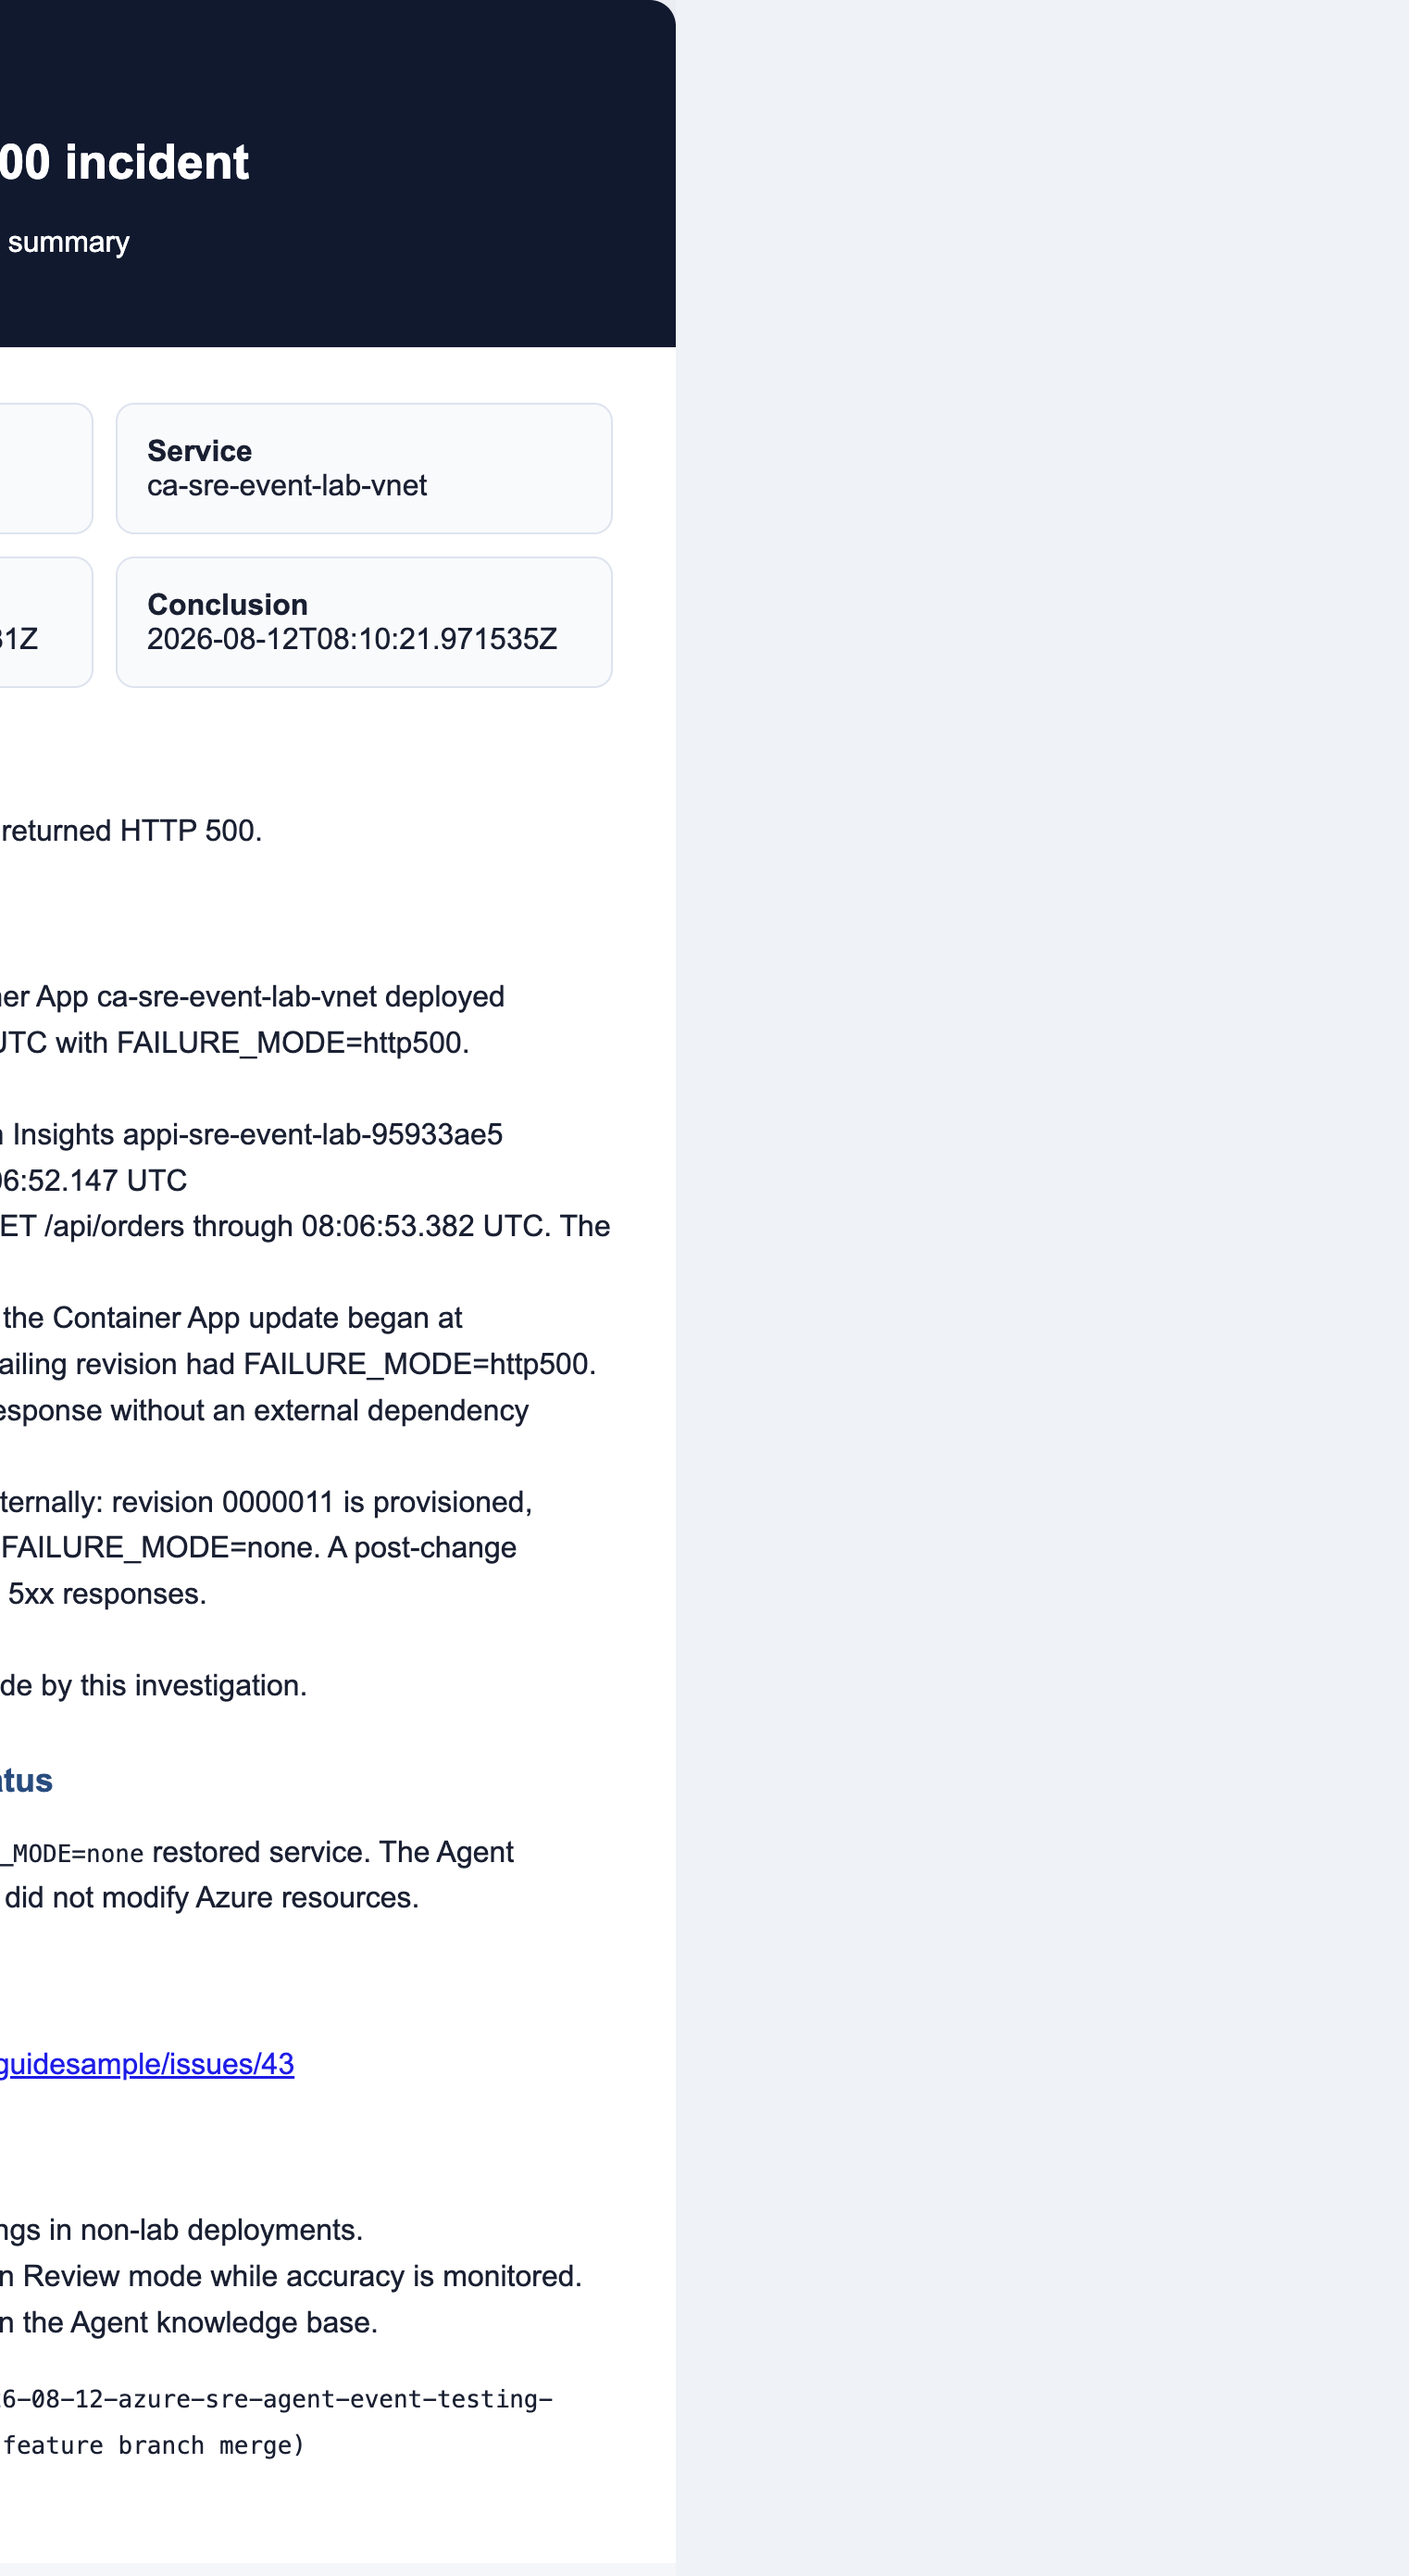
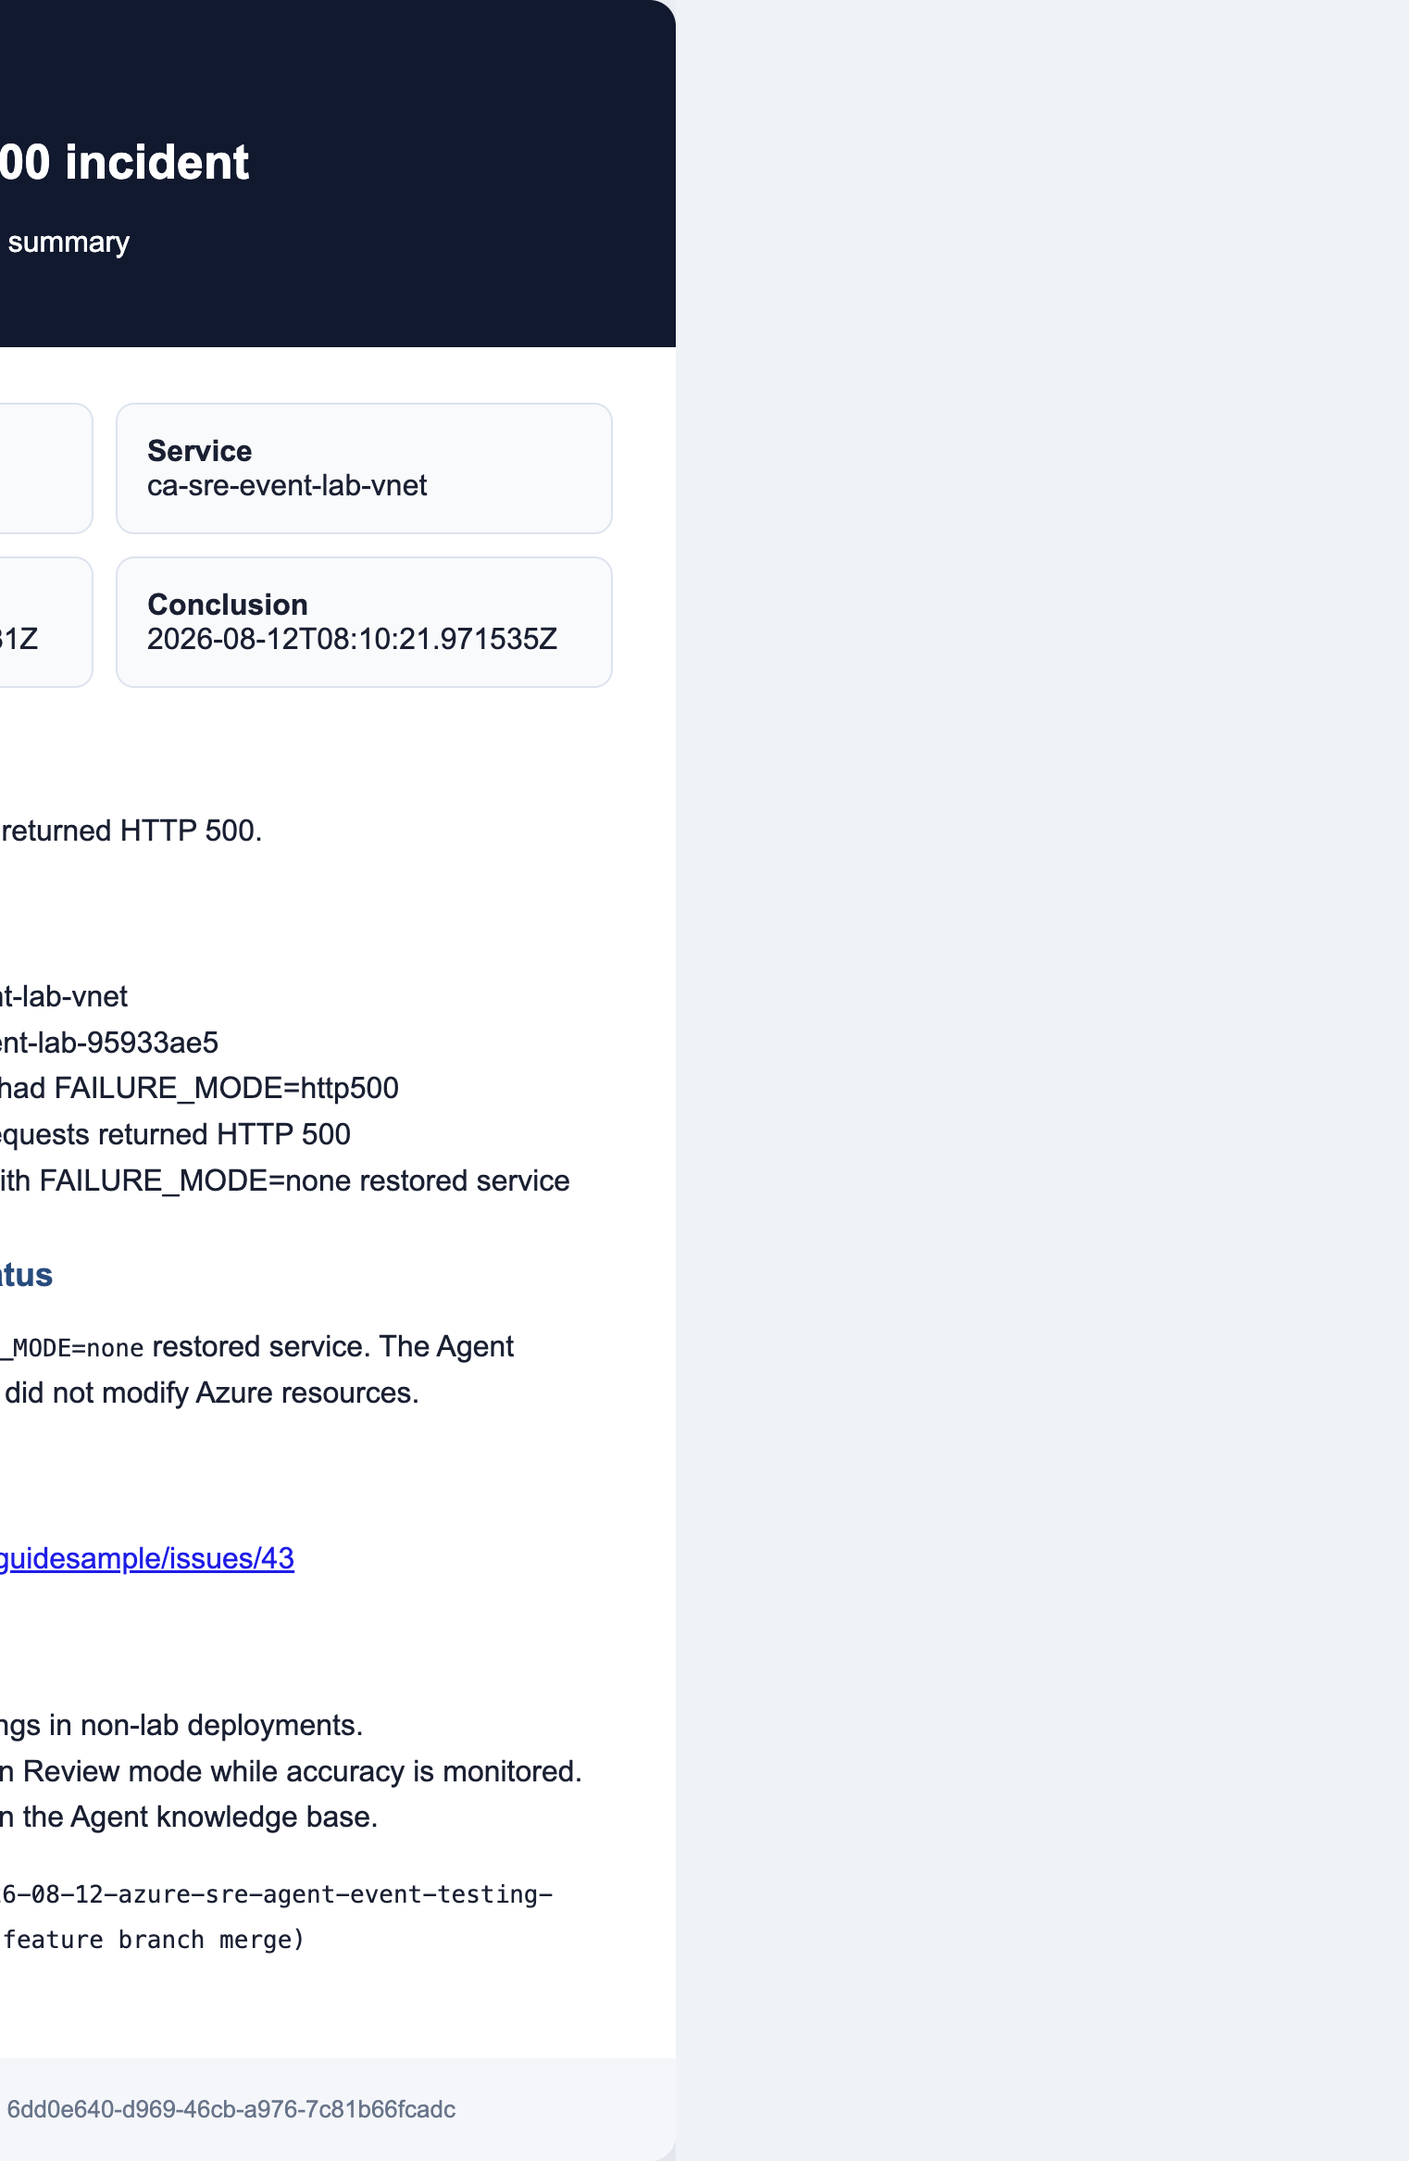
fix(monitor): clarify native SRE incident workflows

diff --git a/monitor/sre-agent-event-lab/assets/notifications/s1-incident-summary.html b/monitor/sre-agent-event-lab/assets/notifications/s1-incident-summary.html
@@ -34,7 +34,7 @@
       <h2>Customer impact</h2>
       <p>120 <code>GET /api/orders</code> requests returned HTTP 500.</p>
       <h2>Root cause and evidence</h2>
-      <p>Root cause confirmed: Container App ca-sre-event-lab-vnet deployed revision 0000010 at 08:06:16 UTC with FAILURE_MODE=http500.<br><br>- Affected resource: Application Insights appi-sre-event-lab-95933ae5<br>- Exact onset: 2026-08-12 08:06:52.147 UTC<br>- Impact: 120 HTTP 500s on GET /api/orders through 08:06:53.382 UTC. The alert fired at 08:07:56 UTC.<br>- Evidence: Activity Log shows the Container App update began at 08:06:08.954 UTC; the active failing revision had FAILURE_MODE=http500. Trace evidence shows a 500 response without an external dependency timeout pattern.<br>- Mitigation: Already applied externally: revision 0000011 is provisioned, receives 100% traffic, and has FAILURE_MODE=none. A post-change telemetry sample contained no 5xx responses.<br><br>No resource changes were made by this investigation.</p>
+      <p>Affected workload: ca-sre-event-lab-vnet<br>Telemetry source: appi-sre-event-lab-95933ae5<br>Root cause: revision 0000010 had FAILURE_MODE=http500<br>Impact: 120 GET /api/orders requests returned HTTP 500<br>Mitigation: a healthy revision with FAILURE_MODE=none restored service</p>
       <h2>Mitigation and current status</h2>
       <p>A healthy revision with <code>FAILURE_MODE=none</code> restored service. The Agent remained in Review mode and did not modify Azure resources.</p>
       <h2>Ticket</h2>

diff --git a/monitor/sre-agent-event-lab/scripts/tests/test_notifications.py b/monitor/sre-agent-event-lab/scripts/tests/test_notifications.py
@@ -76,6 +76,8 @@ def test_generate_notifications_creates_ticket_and_email(tmp_path):
         assert heading in issue
     assert "120" in issue
     assert "thread-1" in issue
+    assert "Affected workload: `ca-sre-event-lab-vnet`" in issue
+    assert "Affected resource: Application Insights" not in issue
     assert "available after merge" in issue
     assert "Incident window" not in issue
     assert "Alert fired:" in issue
@@ -92,12 +94,27 @@ def test_generate_notifications_creates_ticket_and_email(tmp_path):
     assert "available after merge" in message.get_body(
         preferencelist=("html",)
     ).get_content()
+    assert "Affected workload: ca-sre-event-lab-vnet" in message.get_body(
+        preferencelist=("html",)
+    ).get_content()
     assert "**" not in (tmp_path / "s1-incident-summary.html").read_text()
     assert outputs["issue"].endswith("s1-github-issue.md")
 
 
 def test_generate_notifications_redacts_sensitive_values(tmp_path):
     notifications = load_module()
+    redacted = notifications.sanitize(
+        "Authorization: Bearer hidden-token "
+        "DefaultEndpointsProtocol=https;AccountKey=abc123 "
+        "upn=user@contoso.com "
+        "https://logic.example/path?sig=verylongcallbacksigrandomvalue"
+    )
+    assert "hidden-token" not in redacted
+    assert "abc123" not in redacted
+    assert "user@contoso.com" not in redacted
+    assert "verylongcallbacksigrandomvalue" not in redacted
+    assert "[REDACTED]" in redacted
+
     unsafe = timeline()
     unsafe[-1]["summary"] += (
         " Authorization: Bearer hidden-token "
@@ -124,4 +141,3 @@ def test_generate_notifications_redacts_sensitive_values(tmp_path):
     assert "abc123" not in rendered
     assert "user@contoso.com" not in rendered
     assert "verylongcallbacksigrandomvalue" not in rendered
-    assert "[REDACTED]" in rendered

diff --git a/monitor/sre-agent-event-lab/scripts/generate_notifications.py b/monitor/sre-agent-event-lab/scripts/generate_notifications.py
@@ -38,6 +38,19 @@ def strip_markdown(value: str) -> str:
     return sanitize(value).replace("**", "").replace("`", "")
 
 
+def verified_summary(markdown: bool = False) -> str:
+    code = (lambda value: f"`{value}`") if markdown else (lambda value: value)
+    return "\n".join(
+        (
+            f"Affected workload: {code('ca-sre-event-lab-vnet')}",
+            f"Telemetry source: {code('appi-sre-event-lab-95933ae5')}",
+            f"Root cause: revision {code('0000010')} had {code('FAILURE_MODE=http500')}",
+            f"Impact: 120 {code('GET /api/orders')} requests returned HTTP 500",
+            "Mitigation: a healthy revision with FAILURE_MODE=none restored service",
+        )
+    )
+
+
 def find_event(timeline: list[dict[str, Any]], state: str, last: bool = False):
     matches = [event for event in timeline if event.get("state") == state]
     if not matches:
@@ -51,7 +64,7 @@ def issue_markdown(
     conclusion: dict[str, Any],
     report_url: str,
 ) -> str:
-    summary = sanitize(conclusion["summary"])
+    summary = verified_summary(markdown=True)
     return f"""## Impact
 
 - Service: `ca-sre-event-lab-vnet`
@@ -105,7 +118,7 @@ def email_html(
     report_url: str,
     issue_url: str,
 ) -> str:
-    summary = html.escape(strip_markdown(conclusion["summary"])).replace(
+    summary = html.escape(verified_summary()).replace(
         "\n", "<br>"
     )
     ticket = (

diff --git a/monitor/sre-agent-event-lab/assets/notifications/s1-github-issue.md b/monitor/sre-agent-event-lab/assets/notifications/s1-github-issue.md
@@ -24,15 +24,11 @@ Container App revision `0000010` was deployed with `FAILURE_MODE=http500`.
 - Activity Log and revision timing matched the first failed request.
 - Agent conclusion:
 
-> **Root cause confirmed:** Container App `ca-sre-event-lab-vnet` deployed revision `0000010` at 08:06:16 UTC with `FAILURE_MODE=http500`.
-
-- **Affected resource:** Application Insights `appi-sre-event-lab-95933ae5`
-- **Exact onset:** 2026-08-12 08:06:52.147 UTC
-- **Impact:** 120 HTTP 500s on `GET /api/orders` through 08:06:53.382 UTC. The alert fired at 08:07:56 UTC.
-- **Evidence:** Activity Log shows the Container App update began at 08:06:08.954 UTC; the active failing revision had `FAILURE_MODE=http500`. Trace evidence shows a 500 response without an external dependency timeout pattern.
-- **Mitigation:** Already applied externally: revision `0000011` is provisioned, receives 100% traffic, and has `FAILURE_MODE=none`. A post-change telemetry sample contained no 5xx responses.
-
-No resource changes were made by this investigation.
+> Affected workload: `ca-sre-event-lab-vnet`
+Telemetry source: `appi-sre-event-lab-95933ae5`
+Root cause: revision `0000010` had `FAILURE_MODE=http500`
+Impact: 120 `GET /api/orders` requests returned HTTP 500
+Mitigation: a healthy revision with FAILURE_MODE=none restored service
 
 ## Current status
 

diff --git a/monitor/sre-agent-event-lab/README.md b/monitor/sre-agent-event-lab/README.md
@@ -98,7 +98,9 @@ monitor/sre-agent-event-lab/scripts/deploy.sh \
 
 ### 실제 event bridge
 
-Native Azure Monitor response plan은 Portal에서는 생성할 수 있지만 공개 API 자동화가 제한되었다. 이 실험은 Azure SRE Agent의 공식 HTTP Trigger 기능을 사용해 다음 경로를 구성했다.
+제품의 표준 Azure Monitor 연계는 Azure Monitor incident platform과 response plan을 통해 Agent로 직접 전달되며 Logic App bridge가 필요하지 않다.
+
+이 실험은 response plan 공개 API 자동 구성 제약 때문에 Azure SRE Agent의 HTTP Trigger 기능 앞에 Action Group + Logic App 인증 bridge를 둔 lab-specific 경로를 구성했다. 아래 bridge는 표준 도입의 필수 구성 요소가 아니다.
 
 ```text
 Azure Monitor scheduled-query alert

diff --git a/monitor/azure-sre-agent.md b/monitor/azure-sre-agent.md
@@ -147,7 +147,9 @@ Agent가 다음 질문에 근거를 들어 답해야 한다.
 
 ## 2. 이벤트 전달
 
-이번 lab은 공개 API로 재현 가능한 공식 HTTP Trigger 패턴을 사용했다.
+제품의 표준 Azure Monitor 연계는 **Azure Monitor incident platform → response plan → Agent**로 직접 연결되며 Logic App bridge가 필요하지 않다.
+
+이번 lab은 response plan의 공개 API 자동 구성 제약 때문에, Azure SRE Agent가 공식 지원하는 HTTP Trigger 앞에 **Action Group + Logic App 인증 bridge**를 둔 lab-specific 자동화 경로를 사용했다. 이 bridge는 표준 Azure Monitor 도입의 필수 구성 요소가 아니다.
 
 ```text
 Azure Monitor alert
